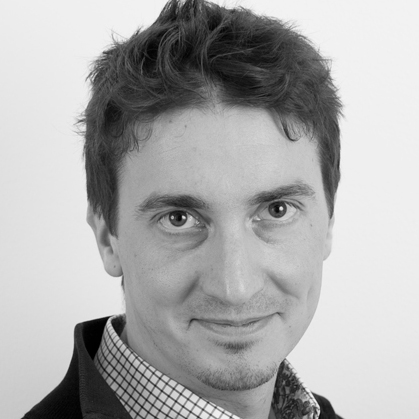
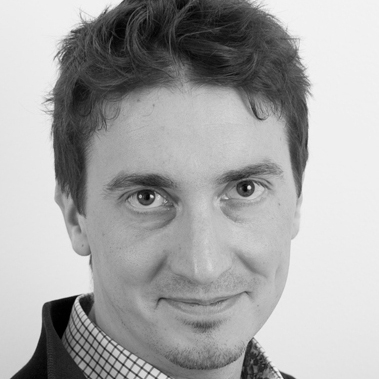
Synkade bilder i public med bilder i app

diff --git a/app/assets/js/constants.js b/app/assets/js/constants.js
@@ -1,4 +1,4 @@
-
+
 export const CONSULTANTS = [
   {
     name: "Leon Hennings",
@@ -22,7 +22,7 @@ export const CONSULTANTS = [
     name: "Jon Neergaard",
     linkedin: "https://se.linkedin.com/in/jonneergaard",
     title: "Inte utvecklare",
-    image: "public/assets/img/consultants/jon_sml.png"
+    image: "public/assets/img/consultants/jon_sml.jpg"
   },
   {
     name: "Jens Ohlsson",
